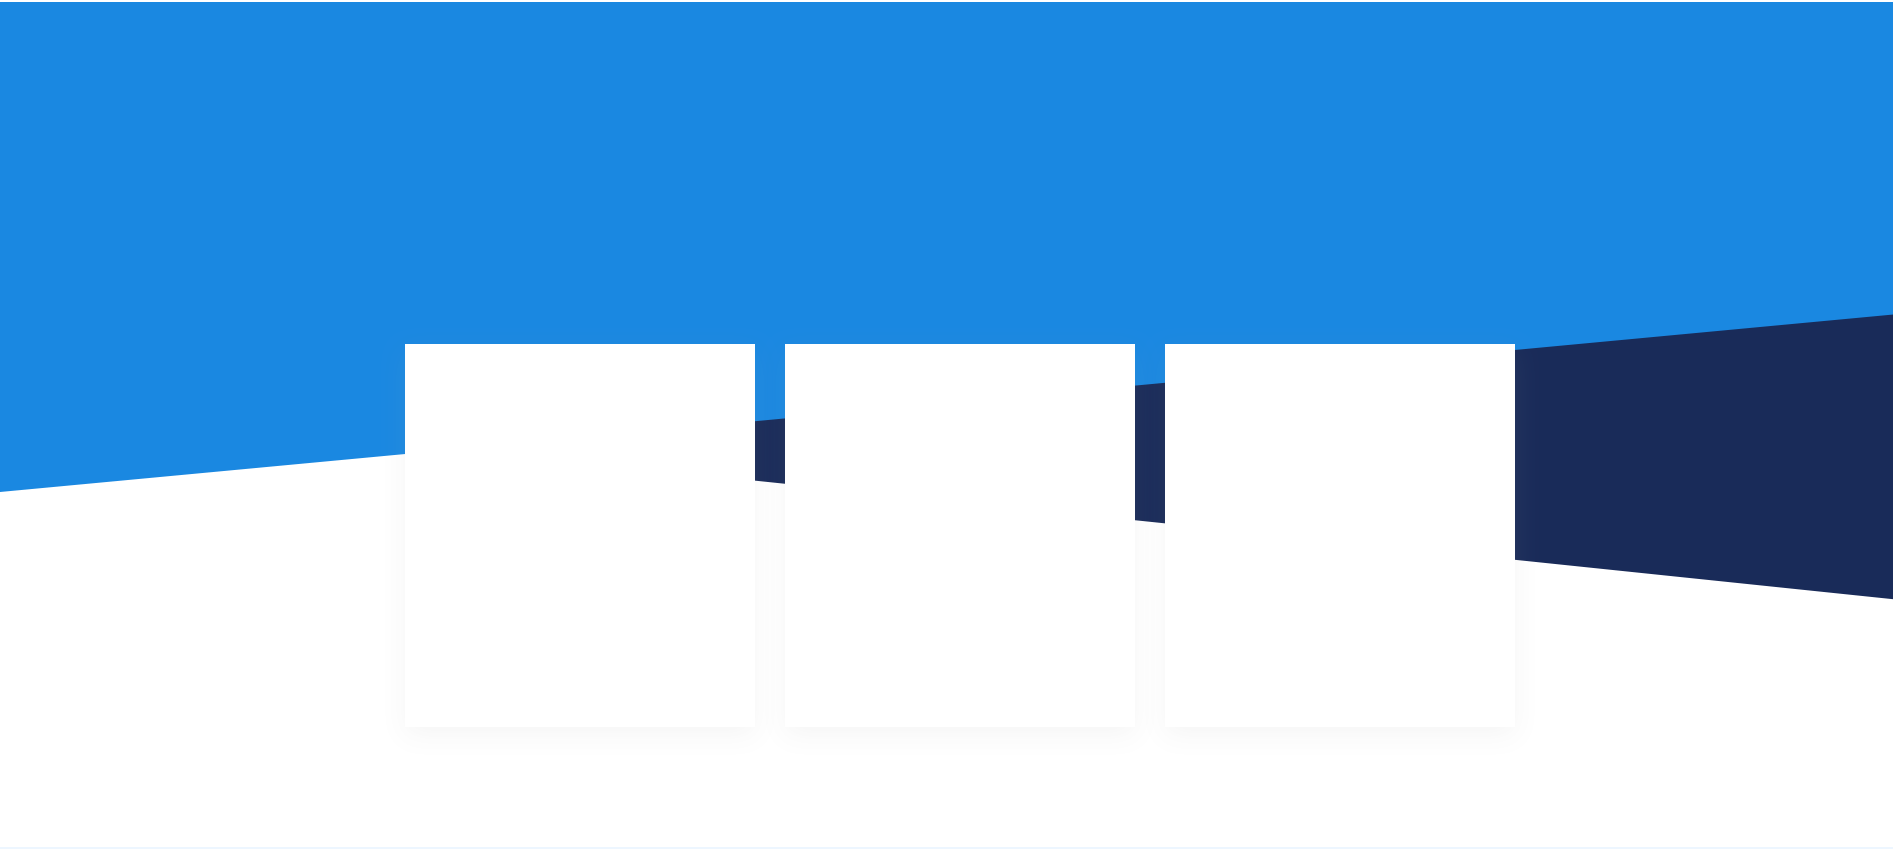
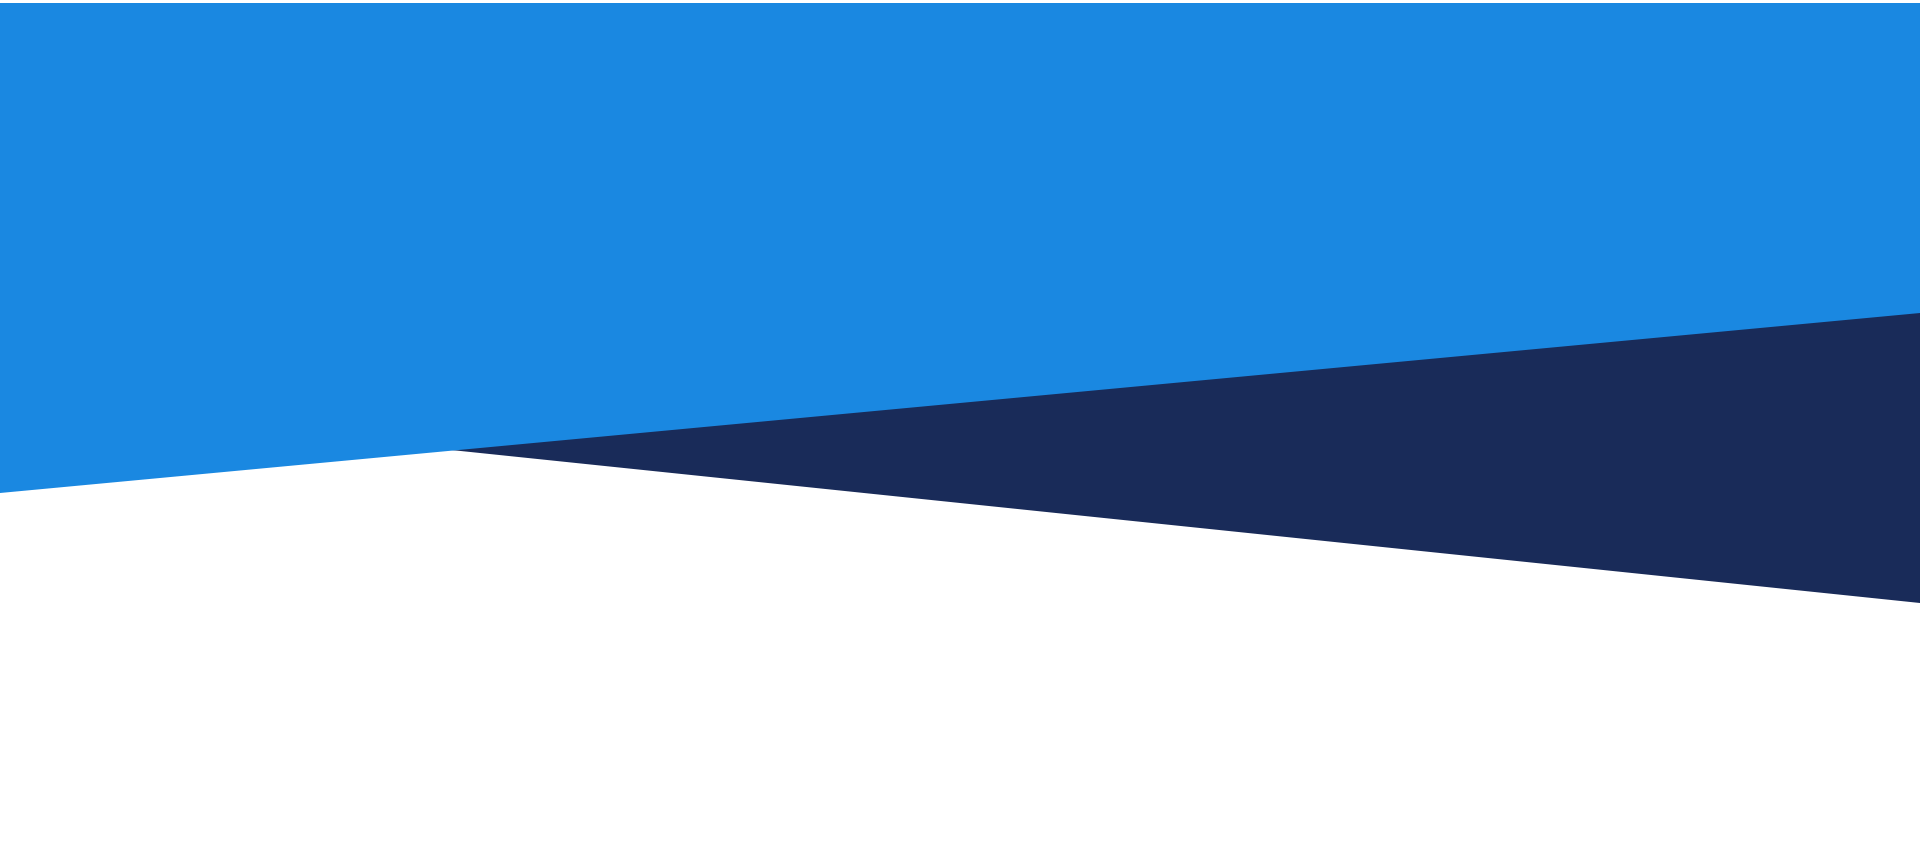
html css

Changed region(s): [[0.187, 0.3991, 0.9974, 0.706], [0.0, 0.5525, 0.1247, 0.5832], [0.9974, 0.706, 1.0, 0.7367]]

diff --git a/www/index.html b/www/index.html
@@ -334,17 +334,17 @@
     </div>
     <div class="page-team">
         <div class="wrap">
-            <h2 class="title-h2"><span>angels</span>Our Team</h2>
+            <h2 class="title-40"><span>angels</span>Our Team</h2>
             <div class="box-team">
-                <div>
+                <div class="box-team-item">
                     <p>founder</p>
                     <p>Ricardo T. Obrie</p>
                 </div>
-                <div>
+                <div class="box-team-item">
                     <p>ceo</p>
                     <p>Alberto Del Rio</p>
                 </div>
-                <div>
+                <div class="box-team-item">
                     <p>designer</p>
                     <p>Thomas Alva Adison</p>
                 </div>
@@ -383,5 +383,6 @@
             </ul>
         </div>
     </footer>
+    <script src="https://code.jquery.com/jquery-3.6.0.min.js" integrity="sha256-/xUj+3OJU5yExlq6GSYGSHk7tPXikynS7ogEvDej/m4=" crossorigin="anonymous"></script>
 </body>
 </html>   

diff --git a/www/css/style.css b/www/css/style.css
@@ -728,6 +728,20 @@ h1 {
  padding-left: 17px;
 }
 
+.box-team {
+    display: flex;
+    justify-content: space-between;
+    align-items: center;   
+}
+
+.box-team-item {
+    background-color: #fff;
+    flex-basis: 32%;
+    box-shadow: 0 9px 20px #f4f4f4;
+
+}
+
+
 /* page */
 
 
@@ -806,10 +820,17 @@ h1 {
    padding: 16px 0 0 0;
 }
 
-.page-clients .title-40 span {
+.page-clients .title-40, .page-team .title-40  {
+    color: #fff;
+}
+
+.page-clients .title-40 span, .page-team .title-40 span  {
     color: #85c8ff;
 }
 
-.page-clients .title-40  {
-    color: #fff;
+.page-team {
+    text-align: center;
+    background-image: url(../img/team-bg.png);
+    background-position: center;
+    background-repeat: no-repeat;
 }
